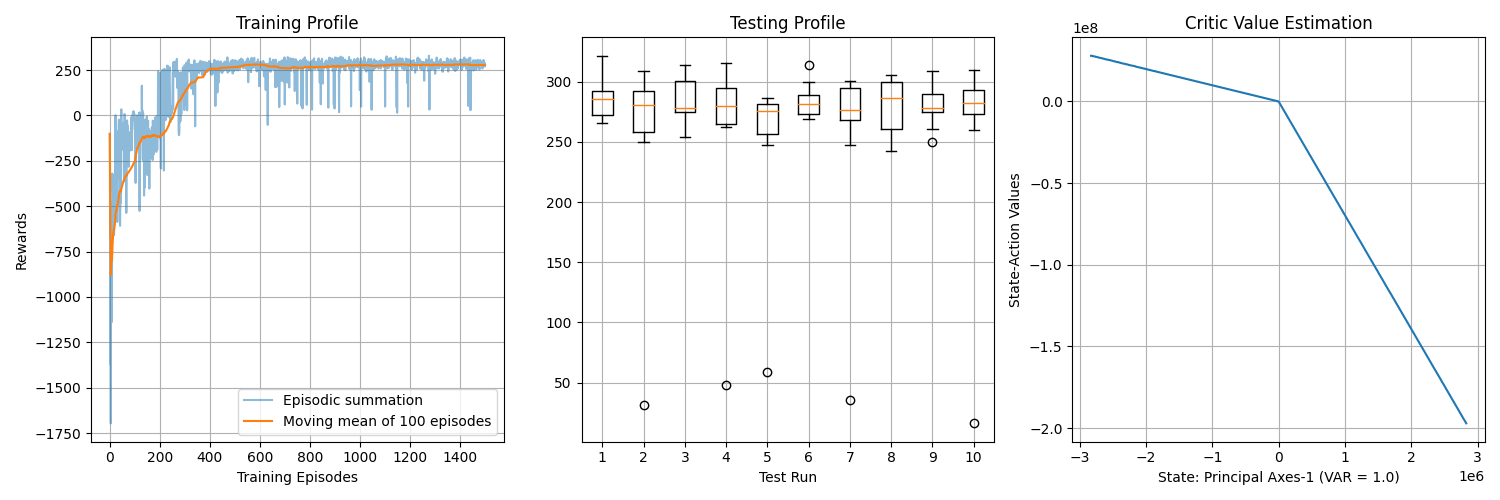
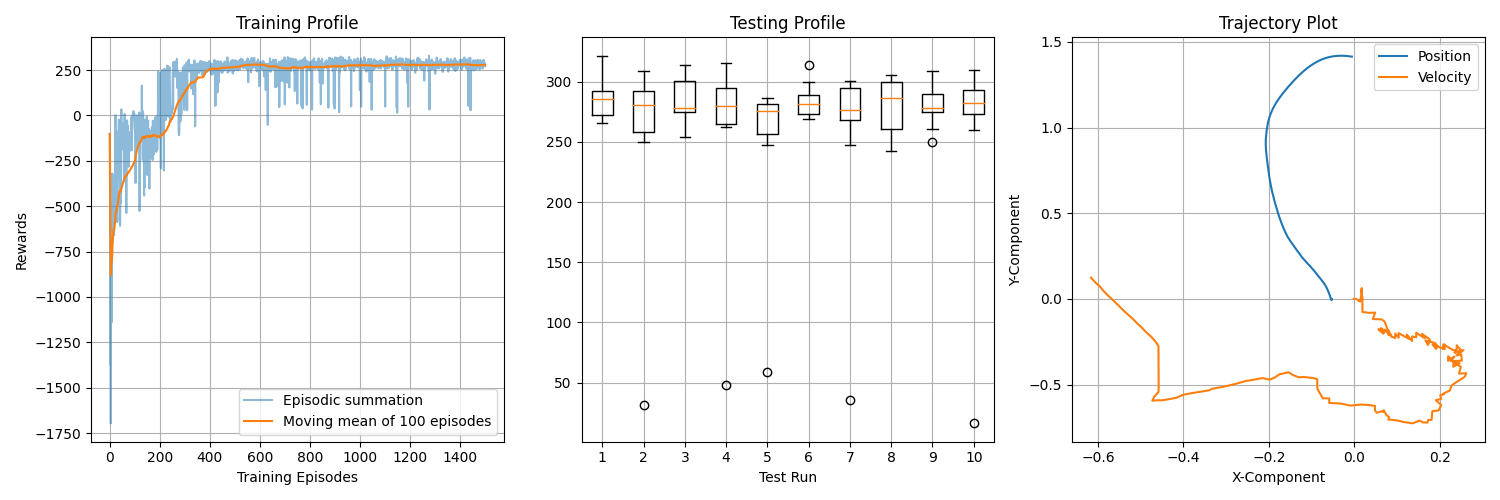
Added: Trajectory Plots

diff --git a/DDPG-PNE-PER/profile.py b/DDPG-PNE-PER/profile.py
@@ -2,10 +2,6 @@ import os
 import numpy as np
 import json
 
-import torch
-
-from sklearn.decomposition import PCA
-
 import gym
 
 import matplotlib.pyplot as plt
@@ -13,12 +9,20 @@ import matplotlib.pyplot as plt
 from PNDDPG import Agent
 
 
-def predict_value(agent: Agent, state: np.ndarray) -> float:
-    with torch.no_grad():
-        state = torch.as_tensor(state, dtype=torch.float32, device=agent.actor.device)
-        action = torch.as_tensor(agent.choose_action(state), dtype=torch.float32, device=agent.actor.device)
-        value = agent.critic.forward(state, action)
-    return value.item()
+def collect_trajectories(env: gym.Env, agent: Agent, n_games: int = 10) -> np.ndarray:
+
+    for _ in range(n_games):
+        state = env.reset()
+        done: bool = False
+        state_history: list[np.ndarray] = []
+
+        while not done:
+            state_history.append(state)
+            action = agent.choose_action(state)
+            next_state, _, done, _ = env.step(action)
+            state = next_state
+
+    return np.vstack(state_history)
 
 
 if __name__ == "__main__":
@@ -44,20 +48,7 @@ if __name__ == "__main__":
     average = [data["Moving Mean of Episodic Rewards"] for data in train_data]
     test = [data["Test Score"] for data in test_data]
 
-    # Process network data
-    initial_state = 1e6 * np.ones(env.observation_space.shape[0])
-    final_state = -1e6 * np.ones(env.observation_space.shape[0])
-    steps: int = 500
-    states = np.linspace(initial_state, final_state, steps)
-
-    # Compress the states to 2D
-    state = np.vstack(states)
-    pca = PCA(n_components=1)
-    compressed_states = pca.fit_transform(state)
-    assert np.allclose(pca.explained_variance_ratio_[0], 1.0)
-
-    # Fetch values
-    values = [predict_value(agent, pca.inverse_transform(state)) for state in compressed_states]
+    trajectory = collect_trajectories(env, agent)
 
     # Generate graphs
     fig, axes = plt.subplots(nrows=1, ncols=3, figsize=(15, 5))
@@ -75,11 +66,13 @@ if __name__ == "__main__":
     axes[1].set_xlabel('Test Run')
     axes[1].set_title('Testing Profile')
 
-    axes[2].plot(compressed_states, values)
+    axes[2].plot(trajectory[:, 0], trajectory[:, 1], label='Position')
+    axes[2].plot(trajectory[:, 2], trajectory[:, 3], label='Velocity')
     axes[2].grid(True)
-    axes[2].set_xlabel('State: Principal Axes-1 (VAR = 1.0)')
-    axes[2].set_ylabel('State-Action Values')
-    axes[2].set_title("Critic Value Estimation")
+    axes[2].legend(loc='best')
+    axes[2].set_xlabel('x1')
+    axes[2].set_ylabel('x2')
+    axes[2].set_title("Trajectory Plot")
 
     fig.tight_layout()
     plt.savefig(os.path.join(data_path, 'PNDDPG Agent Profiling.png'))

diff --git a/Vanilla-DDPG/profile.py b/Vanilla-DDPG/profile.py
@@ -2,10 +2,6 @@ import os
 import numpy as np
 import json
 
-import torch
-
-from sklearn.decomposition import PCA
-
 import gym
 
 import matplotlib.pyplot as plt
@@ -13,12 +9,20 @@ import matplotlib.pyplot as plt
 from DDPG import Agent
 
 
-def predict_value(agent: Agent, state: np.ndarray) -> float:
-    with torch.no_grad():
-        state = torch.as_tensor(state, dtype=torch.float32, device=agent.actor.device)
-        action = torch.as_tensor(agent.choose_action(state), dtype=torch.float32, device=agent.actor.device)
-        value = agent.critic.forward(state, action)
-    return value.item()
+def collect_trajectories(env: gym.Env, agent: Agent, n_games: int = 10) -> np.ndarray:
+
+    for _ in range(n_games):
+        state = env.reset()
+        done: bool = False
+        state_history: list[np.ndarray] = []
+
+        while not done:
+            state_history.append(state)
+            action = agent.choose_action(state)
+            next_state, _, done, _ = env.step(action)
+            state = next_state
+
+    return np.vstack(state_history)
 
 
 if __name__ == "__main__":
@@ -44,20 +48,7 @@ if __name__ == "__main__":
     average = [data["Moving Mean of Episodic Rewards"] for data in train_data]
     test = [data["Test Score"] for data in test_data]
 
-    # Process network data
-    initial_state = 1e6 * np.ones(env.observation_space.shape[0])
-    final_state = -1e6 * np.ones(env.observation_space.shape[0])
-    steps: int = 500
-    states = np.linspace(initial_state, final_state, steps)
-
-    # Compress the states to 2D
-    state = np.vstack(states)
-    pca = PCA(n_components=1)
-    compressed_states = pca.fit_transform(state)
-    assert np.allclose(pca.explained_variance_ratio_[0], 1.0)
-
-    # Fetch values
-    values = [predict_value(agent, pca.inverse_transform(state)) for state in compressed_states]
+    trajectory = collect_trajectories(env, agent)
 
     # Generate graphs
     fig, axes = plt.subplots(nrows=1, ncols=3, figsize=(15, 5))
@@ -75,11 +66,13 @@ if __name__ == "__main__":
     axes[1].set_xlabel('Test Run')
     axes[1].set_title('Testing Profile')
 
-    axes[2].plot(compressed_states, values)
+    axes[2].plot(trajectory[:, 0], trajectory[:, 1], label='Position')
+    axes[2].plot(trajectory[:, 2], trajectory[:, 3], label='Velocity')
     axes[2].grid(True)
-    axes[2].set_xlabel('State: Principal Axes-1 (VAR = 1.0)')
-    axes[2].set_ylabel('State-Action Values')
-    axes[2].set_title("Critic Value Estimation")
+    axes[2].legend(loc='best')
+    axes[2].set_xlabel('x1')
+    axes[2].set_ylabel('x2')
+    axes[2].set_title("Trajectory Plot")
 
     fig.tight_layout()
     plt.savefig(os.path.join(data_path, 'DDPG Agent Profiling.png'))
